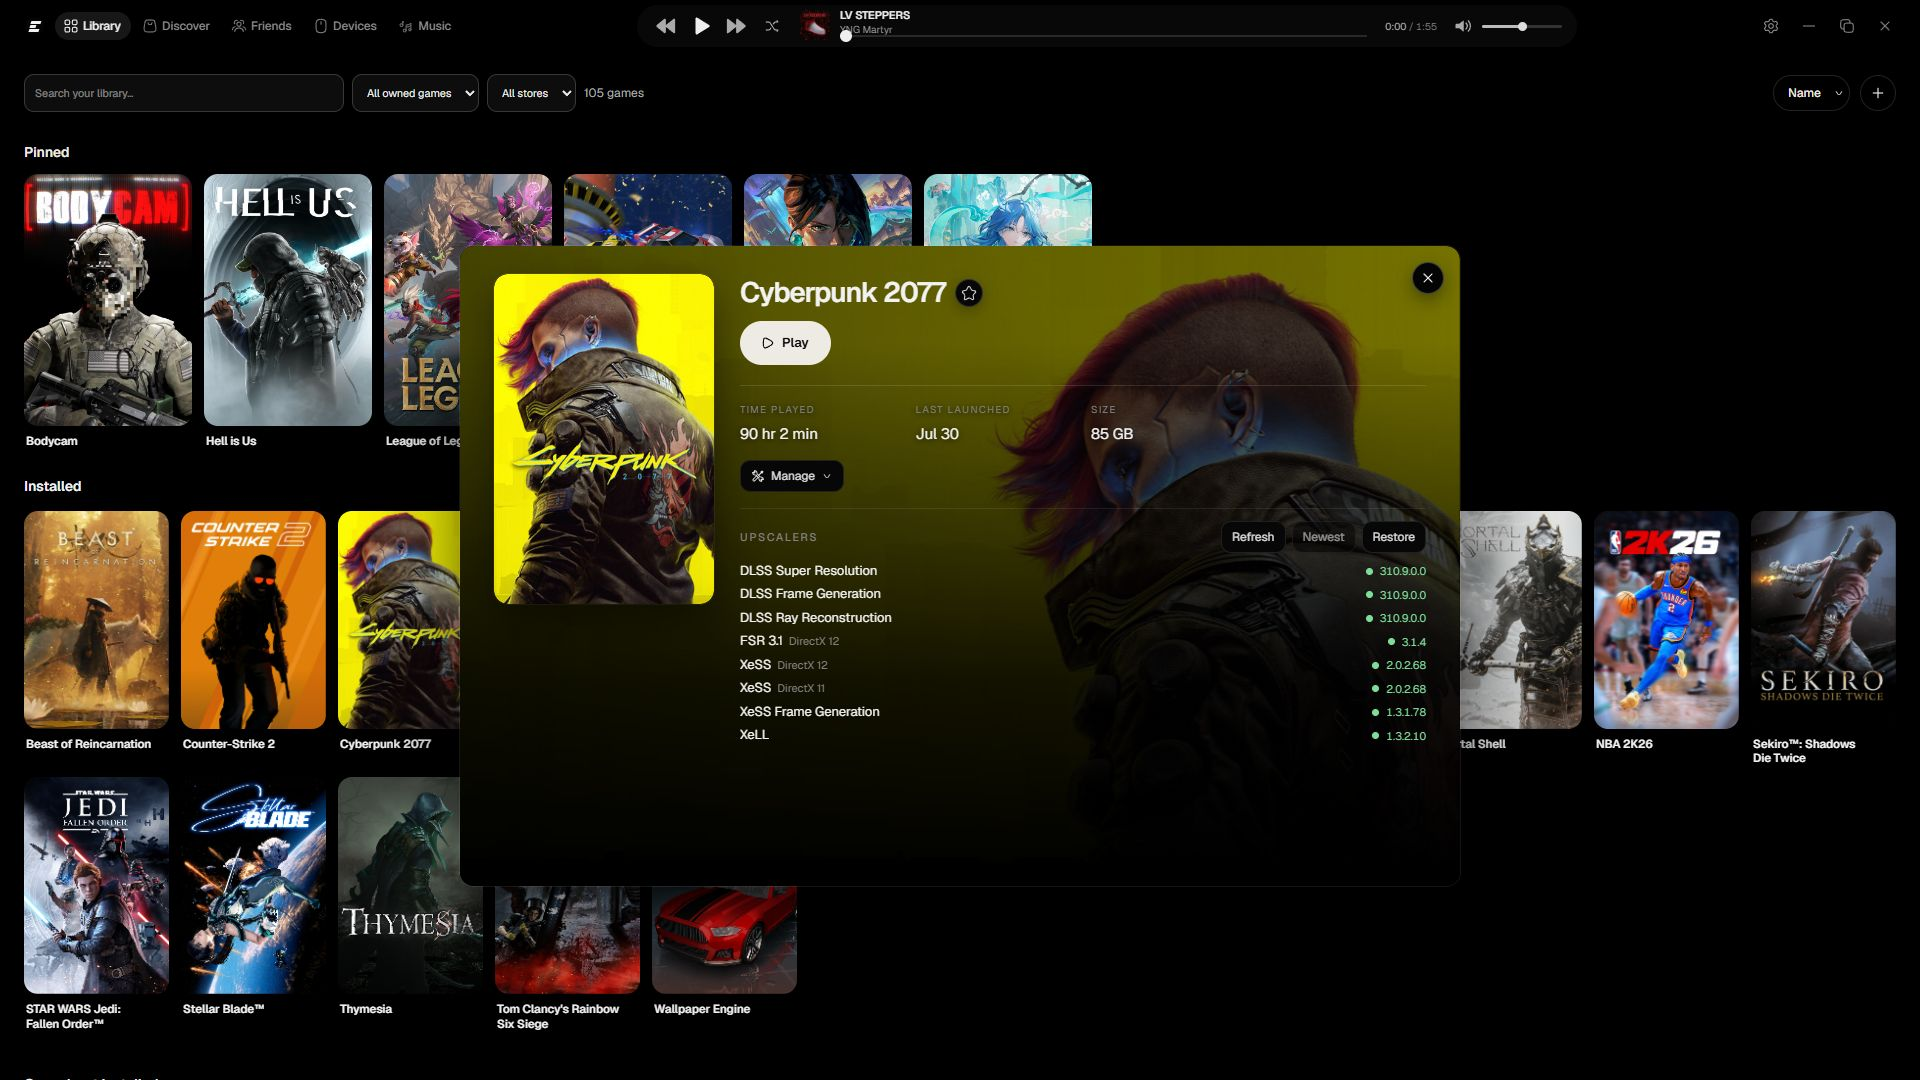
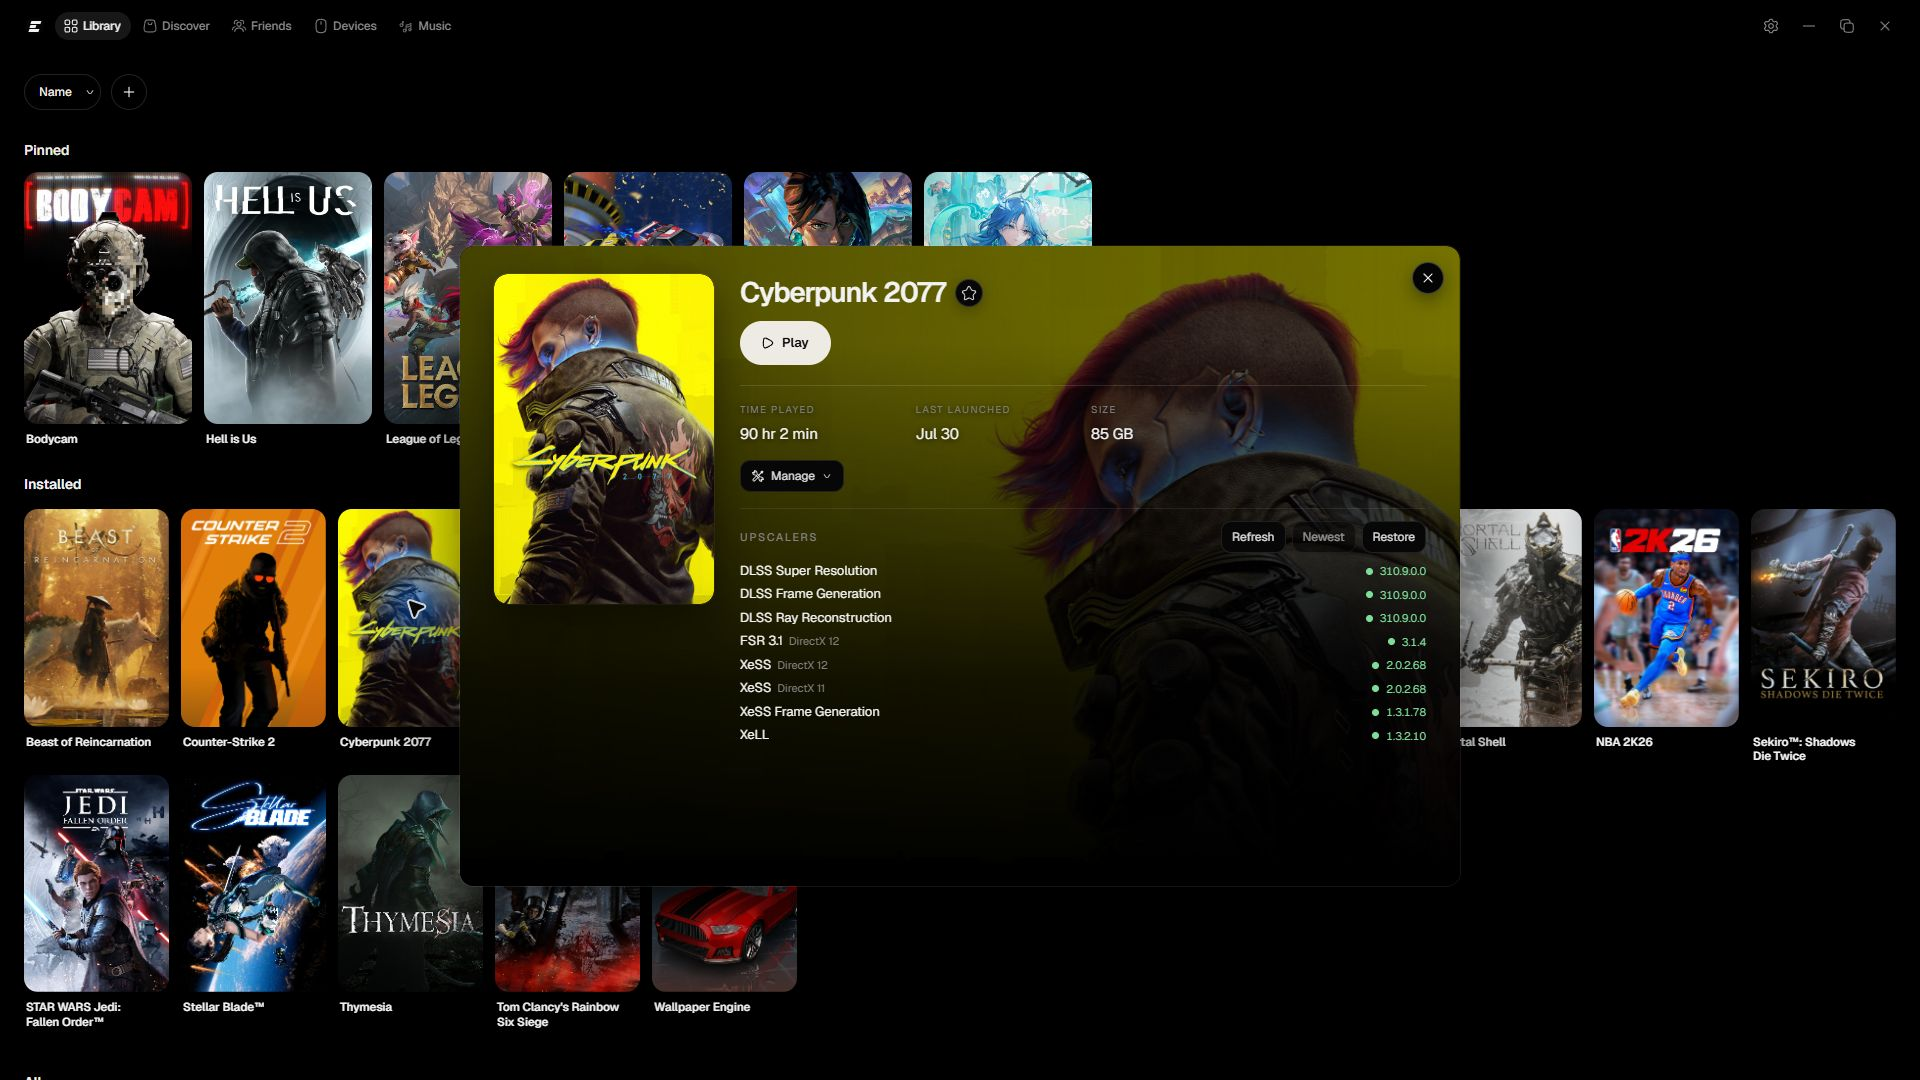
Refresh public guides and screenshots for Exo 3.2

diff --git a/PRIVACY.md b/PRIVACY.md
@@ -2,7 +2,22 @@
 
 **Exo Launcher is local-first. An Exo account is optional. There are no ads or behavioral analytics.**
 
-Library, install, update, launch, and local settings stay usable while signed out or offline. Online identity and social failures do not block those paths.
+You can browse and launch locally installed games without an Exo account. Downloads, updates, online catalogs, and connected services need internet access; individual games may also require their store's account or online access.
+
+## At a glance
+
+- Your local library paths, settings, artwork, and saved service sessions are stored on this PC. The services still handle online sign-in, and some optional store-linking actions send credentials once for verification, as described below.
+- If you use an Exo account, the account service stores account and profile data. Optional social features can share presence and a limited game-activity summary according to your privacy choices.
+- Discord and music providers handle their own sign-ins, content, calls, and playback under their own policies. Signing out of Exo is separate from signing out of these services.
+- Settings includes permissions for the embedded services and actions to export or delete your Exo account data. Exo account export and deletion do not export or delete your Discord or music-provider account.
+
+The sections below explain the data involved, how it is protected, and how long it is retained.
+
+## Music, Discord, and permissions
+
+Friends embeds Discord's website in a separate WebView2 profile. Apple Music, Spotify, and YouTube Music also use separate local browser profiles for their web sign-ins and playback. These services make their own network requests and handle their content under their own privacy policies.
+
+You can review microphone, camera, clipboard, and notification permissions in Settings. Screen sharing asks you to choose a screen or window each time. Windows permissions may also apply. Exo account export does not include Discord messages or music-provider data.
 
 ## What stays on this PC
 
@@ -49,7 +64,7 @@ Presence starts when the WebView host attaches for a signed-in session and runs 
 
 Only connected, non-blocked, non-suppressed friends receive presence. Activity privacy hides game id/title; it does not turn a reachable online person into offline. **Offline** means the service authoritatively has no live connection. **Unknown** means presence could not be determined because the service or a peer object was unavailable. Exo does not convert unknown to offline.
 
-There is no chat or message-content service.
+The Exo account service does not store chat or message content. Chats and calls in the Friends room are handled by Discord.
 
 ## Export, deletion, and retention
 
@@ -69,6 +84,7 @@ Exo's custom application rate-limit identifiers are scoped hashes. Better Auth's
 | Upscaler version catalog | During bounded prewarm/status checks for installed non-protected games, or when you explicitly check/update |
 | Vendor upscaler DLL assets | Only when you explicitly ask Exo to update existing DLSS / FSR / XeSS files |
 | exo-id | Public profile/search/share reads, or optional signed-in identity, social, media, and presence actions |
+| Discord and music providers | When their embedded pages are loaded or used; playback or an active session may continue while you browse another room |
 
 For upscaler status, Exo reads the beeradmoore DLSS Swapper version manifest and reuses a bounded in-memory cache; protected/anti-cheat titles are rejected before that network step. An explicit update may then retrieve an approved NVIDIA, NVIDIA-RTX/Streamline, GPUOpen-LibrariesAndSDKs/FidelityFX-SDK, or Intel XeSS asset. Extracted DLLs are accepted only after vendor signature, PE/export/version, and local SHA-256 integrity checks. Exo never downloads or swaps an upscaler merely because a game was opened or launched.
 
@@ -77,9 +93,9 @@ Network requests use bounded timeouts. Store-authenticated verification requests
 ## What Exo Launcher does not do
 
 - No advertising, behavioral analytics, telemetry SDK, or silent crash upload.
-- No Exo account requirement and no online dependency for the library or game actions.
+- No Exo account requirement for local library browsing and game launching. Store requirements and online features still apply.
 - No Sign in with Apple in the current service.
 - Friends embeds Discord's website in a separate WebView2 profile. Discord handles login, messages, calls, and its browser storage under its own privacy policy. Exo account export does not include Discord messages. Music providers likewise handle their web login and playback; their browser sessions are stored locally in separate WebView2 profiles.
 - No password recovery or verified-email claim in the current email/password flow.
-- No upload of machine paths, library/play history, or unrequested store credentials.
+- No upload of machine paths or raw local play-session history. A signed-in account may share the limited activity summary described above. Store credentials are sent only for the explicit verification actions described above.
 - No kernel driver, anti-cheat bypass, or silent approval of Windows security prompts.

diff --git a/docs/HELP.md b/docs/HELP.md
@@ -1,0 +1,65 @@
+# Getting started and help
+
+## Install or update Exo
+
+1. Download **ExoLauncher-Setup.exe** from the [latest release](https://github.com/ImAvgErix/ExoLauncher/releases/latest).
+2. Run the installer, then open Exo Launcher.
+3. Let Exo find your games and connect the stores or services you want in Settings.
+
+Exo requires **Windows 11 x64**. The installer is unsigned, so Windows may show a SmartScreen warning. Updates keep your settings and sign-ins. You can find your installed version and check for updates in Settings.
+
+## Find and play your games
+
+Open **Library** to browse your games. Select a game to see its details and available actions. Pin favorites for quick access, or add a local game folder when a game isn't found automatically.
+
+Store support varies: Steam, Epic, and GOG provide supported library and game actions, while several other stores support finding and launching installed games. Keep the official client installed where required. [See the store-by-store guide](VENDORS.md).
+
+If a game is missing, check the store account, confirm that the game is installed when required, and refresh the library. If an action fails, read the message shown in Exo and check that the official store client can access the game. Epic and GOG may also need their helper tool or sign-in restored.
+
+Open **Downloads & updates** for available game updates and ongoing download progress. Update and removal options depend on the store.
+
+## Browse Discover
+
+Use **Discover** to browse categories, offers, and search results. Open a game for more information, then return to continue browsing. Catalogs, prices, and availability can change by service and region.
+
+Your wishlist is stored on this PC and shared between Exo accounts on this PC. It doesn't sync to other computers.
+
+## Music and Discord
+
+Choose Apple Music, Spotify, or YouTube Music for **Music**, then sign in to that service. A subscription may be required. The mini player lets you control supported playback while browsing Exo.
+
+Open **Friends** for Discord chats and calls. Discord uses its own account; an Exo account doesn't sign you into Discord or your music service.
+
+If a service is blank, stuck, or signed out, check your connection and whether its website works in your browser, then reopen Exo and sign in again if requested. Service outages or account restrictions can also affect the embedded page.
+
+For calls and other embedded features, check microphone, camera, clipboard, and notification permissions in Settings. Screen sharing asks you to choose what to share each time. Windows privacy settings can also affect microphone and camera access.
+
+## Mouse controls and game profiles
+
+Open **Devices** with a supported mouse or receiver connected. Available settings depend on the model and connection. Use the controls shown for the device, or open **Game profiles** to manage profiles for your games and desktop.
+
+If Exo sees the receiver but says the mouse isn't responding, turn on or wake the mouse, check its battery and connection mode, then select **Rescan**. A connected receiver alone doesn't mean mouse settings can be read or changed.
+
+If a profile doesn't switch as expected, check the games assigned to that profile and confirm the device is responding. Include the mouse model and wired or wireless connection type when reporting a problem.
+
+## Accounts and local data
+
+An Exo account is optional. You can browse and launch locally installed games while signed out. Games may still require their store's account or online access, and downloads, updates, Music, Discord, and online catalogs need a connection.
+
+Exo accounts currently use email and password. Password reset, email verification, Google sign-in, and email sign-in links are not available yet. Account export and deletion are available in Settings; deletion may require a recent sign-in.
+
+Settings and local library data are stored under `%LocalAppData%\ExoLauncher`. Read the [privacy statement](../PRIVACY.md) for account data, third-party services, and retention details.
+
+## Optional game tools
+
+Upscaler tools apply only to supported existing game files. Close the game first, read the message shown for that title, and use the available backup restore action if needed. Compatibility varies by game; protected or anti-cheat titles may be unavailable for these tools.
+
+## Report a problem or suggest something
+
+Check [existing issues](https://github.com/ImAvgErix/ExoLauncher/issues) first, then [open a report or feature request](https://github.com/ImAvgErix/ExoLauncher/issues/new/choose).
+
+For problems, include your Exo version from Settings, the affected room or store, what you did, and what happened. An exact error message or screenshot helps. For device problems, include the model and connection type.
+
+GitHub issues are public. Remove passwords, tokens, email addresses, private chats, and personal file paths from screenshots or log excerpts before posting. Share only the relevant excerpt, rather than your whole Exo data folder.
+
+[Supported features](SUPPORT_MATRIX.md) · [Screenshots](SCREENSHOTS.md) · [Patch notes](../CHANGELOG.md) · [Back to Exo](../README.md)

diff --git a/docs/SCREENSHOTS.md b/docs/SCREENSHOTS.md
@@ -1,0 +1,45 @@
+# A look around Exo Launcher 3.2
+
+Screenshots from the Windows app. Artwork, catalogs, and available controls depend on your library, services, and connected hardware. Personal account details are hidden in the Music screenshot.
+
+## Library
+
+Keep your games together, pin your favorites, and choose what to play.
+
+![Exo 3.2 Library with pinned games and installed games](media/home.jpg)
+
+## Game details
+
+Open a game to see its artwork, information, and available actions.
+
+![Cyberpunk 2077 game details in Exo 3.2](media/game.jpg)
+
+## Discover
+
+Browse categories and offers, search for games, and return to where you left off.
+
+![Discover showing the Top Sellers category](media/discover.jpg)
+
+## Music
+
+Apple Music is shown here. You can also choose Spotify or YouTube Music. Your service handles its own account and subscription.
+
+![Apple Music New page inside the Exo Music room](media/music.jpg)
+
+## Devices
+
+View and adjust the controls available for your supported mouse. This example shows a connected MAMBASNAKE M5 Ultra.
+
+![M5 Ultra mouse controls, including DPI and polling rate](media/devices.jpg)
+
+Save profiles for games and your desktop.
+
+![Desktop and game profiles for a supported mouse](media/profiles.jpg)
+
+## Settings
+
+Manage your preferences, embedded-service permissions, and updates. The About section shows your installed version.
+
+![Exo 3.2 Settings preferences, permissions, and About section](media/settings.jpg)
+
+[Download Exo for Windows 11](https://github.com/ImAvgErix/ExoLauncher/releases/latest) · [Getting started and help](HELP.md) · [Back to Exo](../README.md)

diff --git a/README.md b/README.md
@@ -6,6 +6,8 @@
 
 ![Exo Launcher library](docs/media/home.jpg)
 
+[See Exo in pictures](docs/SCREENSHOTS.md) · [Getting started and help](docs/HELP.md) · [Store support](docs/VENDORS.md)
+
 ## Everything for your session
 
 - **Your games in one place.** Browse games from your connected stores, pin favorites, and find something to play.
@@ -49,11 +51,11 @@ Open Settings to connect stores, change the appearance, manage your account, or 
 - Mouse controls need supported hardware. Optional upscaler tools work only with supported game files and keep backups; compatibility varies by game.
 - Optional Exo accounts use email and password. Password reset, email verification, Google sign-in, and email sign-in links are not available yet.
 
-[All supported features](docs/SUPPORT_MATRIX.md) · [Privacy](PRIVACY.md)
+[All supported features](docs/SUPPORT_MATRIX.md) · [Screenshots](docs/SCREENSHOTS.md) · [Privacy](PRIVACY.md)
 
 ## Help and support
 
-[Report a problem](https://github.com/ImAvgErix/ExoLauncher/issues) · [Support development](https://www.buymeacoffee.com/UhhErix) · [Patch notes](CHANGELOG.md)
+[Get help](docs/HELP.md) · [Report a problem or suggest a feature](https://github.com/ImAvgErix/ExoLauncher/issues/new/choose) · [Support development](https://www.buymeacoffee.com/UhhErix) · [Patch notes](CHANGELOG.md)
 
 Exo is free to download and use. This repository contains the public guides and downloads; the app's source code is private. See the [usage terms](LICENSE). Previously published MIT-licensed versions retain their applicable terms.
 

diff --git a/docs/VENDORS.md b/docs/VENDORS.md
@@ -26,4 +26,4 @@ Epic and GOG use separate helper tools: [Legendary](https://github.com/derrod/le
 
 The actions shown depend on the store, the game, and your account. Exo doesn't replace store ownership requirements, copy protection, or anti-cheat software.
 
-[All supported features](SUPPORT_MATRIX.md) · [Report a problem](https://github.com/ImAvgErix/ExoLauncher/issues)
+[All supported features](SUPPORT_MATRIX.md) · [Getting started and help](HELP.md) · [Report a problem](https://github.com/ImAvgErix/ExoLauncher/issues/new/choose)

diff --git a/.github/SUPPORT.md b/.github/SUPPORT.md
@@ -1,0 +1,9 @@
+# Exo Launcher support
+
+Start with [Getting started and help](../docs/HELP.md) for installation, stores, Music, Discord, Devices, and account questions.
+
+- [Download the latest release](https://github.com/ImAvgErix/ExoLauncher/releases/latest)
+- [Check supported features](../docs/SUPPORT_MATRIX.md)
+- [Report a problem or suggest a feature](https://github.com/ImAvgErix/ExoLauncher/issues/new/choose)
+
+Issues are public. Remove private account details from screenshots and log excerpts before posting.

diff --git a/docs/SUPPORT_MATRIX.md b/docs/SUPPORT_MATRIX.md
@@ -19,4 +19,4 @@ Here's what you can do in Exo Launcher 3.2 and what you'll need.
 
 You don't need an Exo account to browse and launch your local games. Online features depend on their services being available.
 
-[Store support](VENDORS.md) · [Back to Exo](../README.md)
+[Store support](VENDORS.md) · [Getting started and help](HELP.md) · [Screenshots](SCREENSHOTS.md) · [Back to Exo](../README.md)

diff --git a/docs/RELEASE_3.2.md b/docs/RELEASE_3.2.md
@@ -15,3 +15,5 @@ This update makes Exo feel quicker and keeps everyday actions running more smoot
 [Download Exo Launcher for Windows 11](https://github.com/ImAvgErix/ExoLauncher/releases/download/v3.2.0/ExoLauncher-Setup.exe)
 
 Requires Windows 11 x64.
+
+[See the updated app](SCREENSHOTS.md) · [Getting started and help](HELP.md)

diff --git a/CHANGELOG.md b/CHANGELOG.md
@@ -18,6 +18,8 @@ This update makes Exo feel quicker and keeps everyday actions running more smoot
 
 Requires Windows 11 x64.
 
+[Screenshots](docs/SCREENSHOTS.md) · [Getting started and help](docs/HELP.md)
+
 ## 3.1.0 — September 6, 2026
 
 The familiar Exo layout, with fixes that make everyday use smoother.
